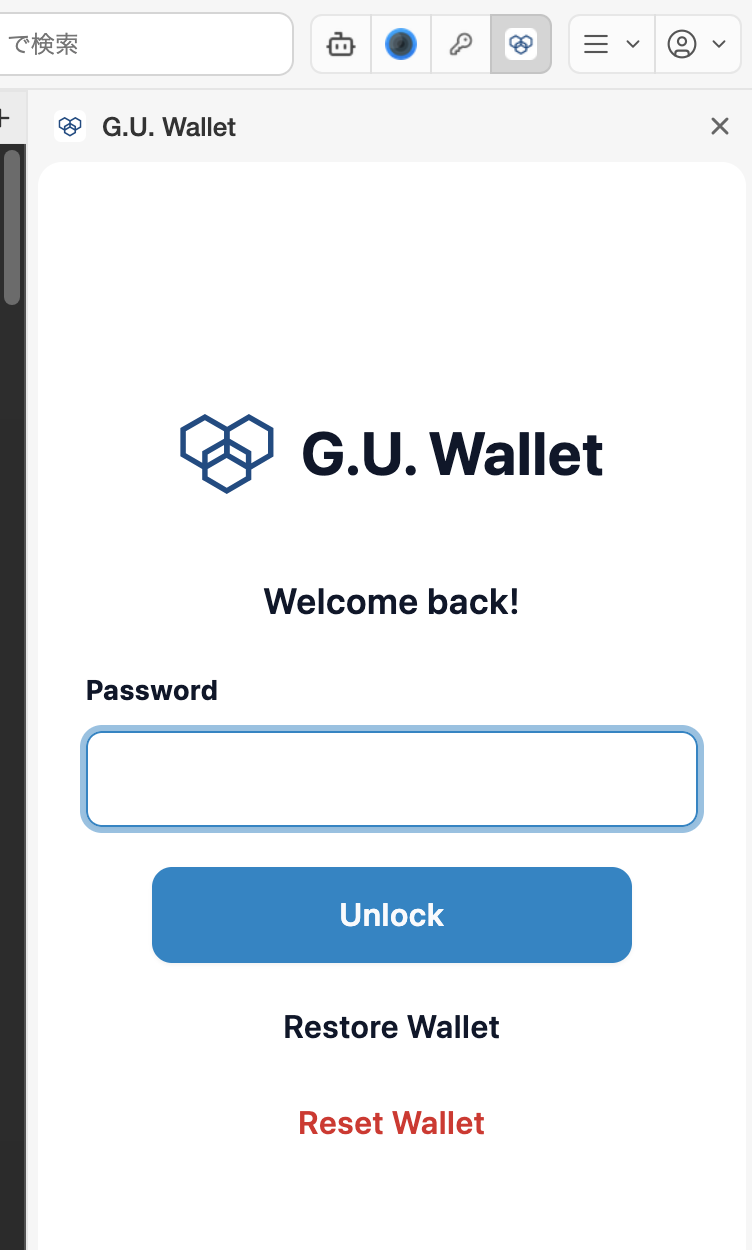
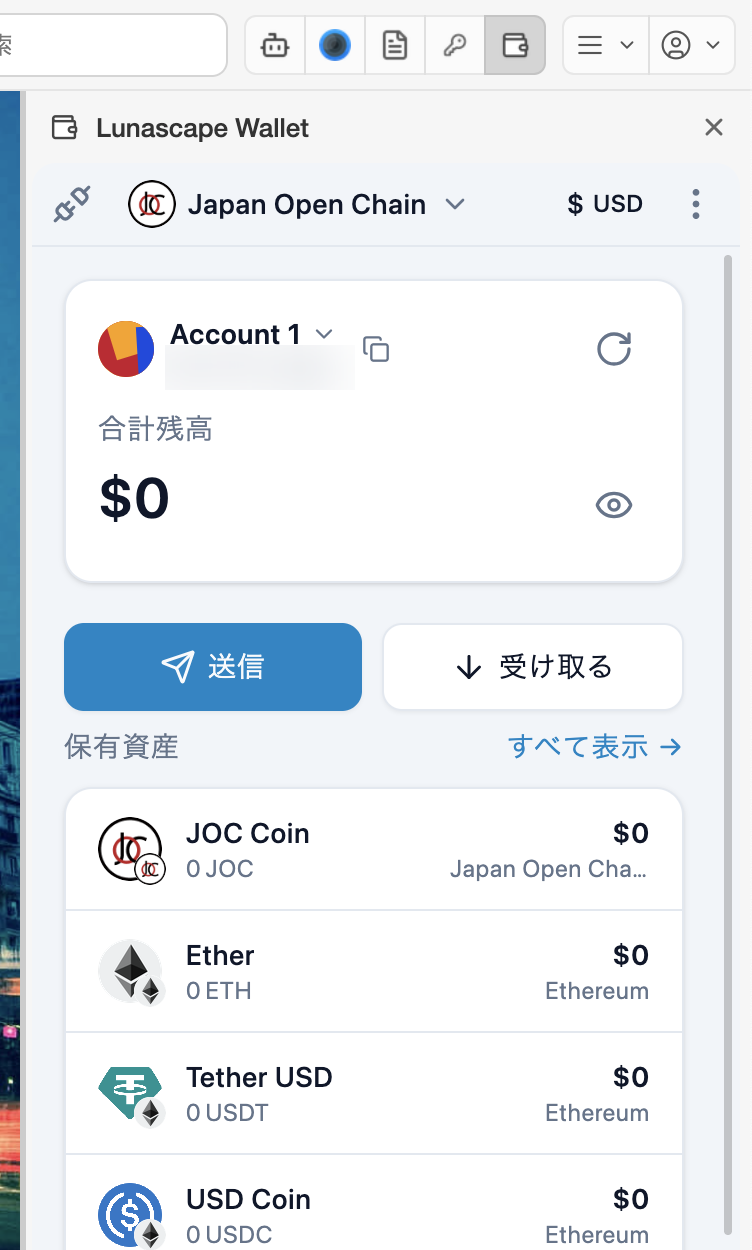
docs(desktop): rename G.U. Wallet to Lunascape Wallet, and retake its screenshots
- Replace every "G.U. Wallet" with "Lunascape Wallet" (ja / en), and fix the
  truncated summary in the extensions index.
- Retake the wallet panel on 1.0.2-beta.43 / wallet 7.0.0.1 (unlocked main
  screen, address blurred), add the Settings > Wallet screenshot, and give the
  English page its own English screenshots under i18n/en/img.
- Describe what the panel shows and how to unlock it on later visits.

diff --git a/desktop/features/extensions/wallet.md b/desktop/features/extensions/wallet.md
@@ -3,15 +3,17 @@ navigation:
   order: 400
 ---
 
-# G.U. Wallet
+# Lunascape Wallet
 
-G.U. Wallet は標準で入っている Web3 ウォレットの拡張機能です。EVM 互換のチェーンに対応し、Web3 サイト（DApp）と接続できます。
+Lunascape Wallet は標準で入っている Web3 ウォレットの拡張機能です。EVM 互換のチェーンに対応し、Web3 サイト（DApp）と接続できます。
 
 ## 使いはじめる
 
-ツールバーの G.U. Wallet のアイコンを押すと、ウィンドウの右側にウォレットのパネルが開きます。画面の案内に従ってウォレットを作成するか、既存のウォレットを復元します。もう一度アイコンを押すか、パネル右上の **×** で閉じます。
+ツールバーの Lunascape Wallet のアイコンを押すと、ウィンドウの右側にウォレットのパネルが開きます。画面の案内に従ってウォレットを作成するか、既存のウォレットを復元します。もう一度アイコンを押すか、パネル右上の **×** で閉じます。
 
-<img src="img/wallet-panel.png" alt="ツールバーの G.U. Wallet のアイコンを押すと、ウィンドウの右側にウォレットのパネルが開く" width="300" />
+ウォレットを開くと、上にチェーン（ネットワーク）、その下にアカウントと合計残高、**送信** / **受け取る** のボタン、保有資産の一覧が表示されます。2 回目からは、作成時に決めたパスワードを入力して **ロック解除** を押します。
+
+<img src="img/wallet-panel.png" alt="ツールバーの Lunascape Wallet のアイコンを押すと、ウィンドウの右側にウォレットのパネルが開き、チェーン、アカウントと合計残高、送信・受け取るボタン、保有資産が表示される（アドレスはぼかしてある）" width="300" />
 
 > **注意:** 復元用のフレーズ（シードフレーズ）は、他人に知られると資産を失います。画面のスクリーンショットやチャットで送ることは避け、安全な場所に保管してください。Lunascape のサポートがフレーズを尋ねることはありません。
 
@@ -22,6 +24,8 @@ Web3 サイトで接続を求められると、ウォレットの確認画面が
 ## 設定
 
 **設定** > **ウォレット** で、ウォレット拡張機能の取得元などを変更できます。通常は既定のまま（Chrome ウェブストアから自動更新）で使います。
+
+<img src="img/wallet-settings.png" alt="設定のウォレット。現在のバージョンが表示され、拡張機能のソースは Chrome Web Store（推奨）が選ばれ、自動更新を有効にするがオンになっている" width="560" />
 
 ## 関連項目
 

diff --git a/desktop/features/extensions/i18n/en/wallet.md b/desktop/features/extensions/i18n/en/wallet.md
@@ -1,10 +1,14 @@
-# G.U. Wallet
+# Lunascape Wallet
 
-G.U. Wallet is the Web3 wallet bundled with the browser. It works with EVM-compatible chains and connects to Web3 sites (DApps).
+Lunascape Wallet is the Web3 wallet bundled with the browser. It works with EVM-compatible chains and connects to Web3 sites (DApps).
 
 ## Get started
 
-Press the G.U. Wallet button in the toolbar and the wallet opens in a panel on the right of the window. Follow the prompts to create a wallet or restore an existing one. Press the button again, or the **×** at the top right of the panel, to close it.
+Press the Lunascape Wallet button in the toolbar and the wallet opens in a panel on the right of the window. Follow the prompts to create a wallet or restore an existing one. Press the button again, or the **×** at the top right of the panel, to close it.
+
+The wallet shows the chain (network) at the top, then your account and total balance, the **Send** and **Receive** buttons, and the list of assets you hold. From the second time on, enter the password you set when you created the wallet and press **Unlock**.
+
+<img src="img/wallet-panel.png" alt="Pressing the Lunascape Wallet button in the toolbar opens the wallet panel on the right, showing the chain, the account and total balance, the Send and Receive buttons, and the assets held (the address is blurred)" width="300" />
 
 > **Note:** Anyone with your recovery phrase can take your assets. Do not photograph it or send it in a chat — keep it somewhere safe. Lunascape support will never ask for it.
 
@@ -15,6 +19,8 @@ When a Web3 site asks to connect, the wallet shows a confirmation. Check that yo
 ## Settings
 
 **Settings** > **Wallet** controls where the wallet extension comes from. Leave it on the default, which keeps it updated from the Chrome Web Store.
+
+<img src="img/wallet-settings.png" alt="The Wallet page in Settings shows the current version, with Extension Source set to Chrome Web Store (recommended) and Enable auto-update on" width="560" />
 
 ## Related topics
 

diff --git a/desktop/getting-started/screen.md b/desktop/getting-started/screen.md
@@ -17,7 +17,7 @@ Lunascape のウィンドウは、次の要素で構成されています。
 | サイドバー | ウィンドウの左側です。**ナビゲーション**（ダッシュボード・ウェブ・ダウンロード・設定）と、お気に入り（ブックマーク）が並びます |
 | タブバー | ページ領域のすぐ上に、開いているタブが並びます。右端の **+** で新しいタブを開きます。ドラッグで並べ替え、ウィンドウ外へ引き出して分離できます |
 | ブックマークバー | よく使うブックマークが並びます。表示・非表示を切り替えられます |
-| サイドパネル | ウィンドウの右側に、Lunascape AI や G.U. Wallet などのパネルを表示します |
+| サイドパネル | ウィンドウの右側に、Lunascape AI や Lunascape Wallet などのパネルを表示します |
 | ページ領域 | Web ページを表示します |
 
 ## ツールバー左のボタン
@@ -34,7 +34,7 @@ Lunascape のウィンドウは、次の要素で構成されています。
 
 - **Lunascape AI**（ロボットのアイコン）: 表示中のページについて AI に質問できるパネルを右側に開きます。
 - **パスワードマネージャー**（鍵のアイコン）: 保存したログイン情報を開きます。
-- **G.U. Wallet**: ウォレットのパネルを右側に開きます。
+- **Lunascape Wallet**: ウォレットのパネルを右側に開きます。
 - **拡張機能**: 追加した拡張機能のボタンが並びます。
 - **メニュー（≡）**: ファイル、ブックマーク、履歴、ダウンロード、プロファイル、設定、アップデートの確認などをまとめて開きます。
 - **プロファイル**（人型のアイコン）: プロファイルを切り替えたり、管理画面を開いたりします。

diff --git a/desktop/settings/overview.md b/desktop/settings/overview.md
@@ -15,7 +15,7 @@ navigation:
 | プライバシー | 広告ブロック、サイトの権限、履歴の保存日数 |
 | ダウンロード | ダウンロードしたファイルの保存先 |
 | ブックマーク | ブックマークの書き出し・取り込み、バックアップ |
-| ウォレット | 内蔵暗号資産ウォレット（G.U. Wallet）の設定 |
+| ウォレット | 内蔵暗号資産ウォレット（Lunascape Wallet）の設定 |
 | 拡張機能 | 内蔵の拡張機能と、追加した拡張機能の管理 |
 | テーマ | ダッシュボードの背景と、ダッシュボードに表示するアプリ |
 | プロファイル | プロファイルの管理と、リンクを開くプロファイル |
@@ -60,11 +60,11 @@ navigation:
 
 ## ウォレット
 
-G.U. Wallet の **現在のバージョン** と、**拡張機能のソース** を確認・変更します。通常は **Chrome Web Store（推奨）** と **自動更新を有効にする** のままで使います。
+Lunascape Wallet の **現在のバージョン** と、**拡張機能のソース** を確認・変更します。通常は **Chrome Web Store（推奨）** と **自動更新を有効にする** のままで使います。
 
 ## 拡張機能
 
-- **システム拡張**: Lunascape に内蔵の拡張機能（Lunascape AI、G.U. Wallet、Lunascape Password Manager）を、個別にオン・オフできます。
+- **システム拡張**: Lunascape に内蔵の拡張機能（Lunascape AI、Lunascape Wallet、Lunascape Password Manager）を、個別にオン・オフできます。
 - **Chrome 拡張サポート**: Chrome ウェブストアの拡張機能を追加できるようにします（試験的な機能です）。
 - **インストール済み拡張機能**: 追加した拡張機能の有効・無効の切り替えと削除をします。
 

diff --git a/desktop/settings/i18n/en/overview.md b/desktop/settings/i18n/en/overview.md
@@ -10,7 +10,7 @@ Open **Settings** from the menu (≡) or from the sidebar on the left, and pick 
 | Privacy | Ad blocking, site permissions, how long history is kept |
 | Downloads | Where downloaded files are saved |
 | Bookmarks | Exporting and importing bookmarks, and backups |
-| Wallet | The built-in crypto wallet (G.U. Wallet) |
+| Wallet | The built-in crypto wallet (Lunascape Wallet) |
 | Extensions | The built-in extensions and the ones you added |
 | Theme | The dashboard background and the apps on the dashboard |
 | Profiles | Managing profiles, and which profile opens links |
@@ -55,11 +55,11 @@ Set the **Location** to save to, and **Ask where to save each file before downlo
 
 ## Wallet
 
-Shows the **Current Version** of G.U. Wallet and its **Extension Source**. Normally leave it on **Chrome Web Store (recommended)** with **Enable auto-update** on.
+Shows the **Current Version** of Lunascape Wallet and its **Extension Source**. Normally leave it on **Chrome Web Store (recommended)** with **Enable auto-update** on.
 
 ## Extensions
 
-- **System Extensions**: turn the built-in extensions (Lunascape AI, G.U. Wallet, Lunascape Password Manager) on or off one by one.
+- **System Extensions**: turn the built-in extensions (Lunascape AI, Lunascape Wallet, Lunascape Password Manager) on or off one by one.
 - **Chrome Extension Support**: lets you add extensions from the Chrome Web Store (experimental).
 - **Installed Extensions**: enable, disable or remove the extensions you added.
 

diff --git a/desktop/getting-started/i18n/en/screen.md b/desktop/getting-started/i18n/en/screen.md
@@ -10,7 +10,7 @@ The window is made up of these parts.
 | Sidebar | The left side of the window: **Navigation** (Dashboard, Web, Downloads, Settings) and your favorites (bookmarks) |
 | Tab bar | Holds the open tabs, just above the page area. **+** at its right end opens a new tab. Drag to reorder, or drag out of the window to detach |
 | Bookmarks bar | Your frequently used bookmarks. Can be shown or hidden |
-| Side panel | The right side of the window, for panels such as Lunascape AI and G.U. Wallet |
+| Side panel | The right side of the window, for panels such as Lunascape AI and Lunascape Wallet |
 | Page area | Shows the web page |
 
 ## Buttons on the left of the toolbar
@@ -27,7 +27,7 @@ Change their order in **Settings** > **Appearance** > **Order of the navigation 
 
 - **Lunascape AI** (robot icon): opens a panel on the right where you can ask an AI about the page you are on.
 - **Password manager** (key icon): opens your saved logins.
-- **G.U. Wallet**: opens the wallet panel on the right.
+- **Lunascape Wallet**: opens the wallet panel on the right.
 - **Extensions**: the buttons of extensions you have added.
 - **Menu (≡)**: file, bookmarks, history, downloads, profiles, settings, checking for updates and more.
 - **Profile** (person icon): switches profiles and opens the profile settings.

diff --git a/desktop/i18n/en/introduction.md b/desktop/i18n/en/introduction.md
@@ -9,7 +9,7 @@ Lunascape Desktop is a desktop browser for Windows and macOS. It combines everyd
 - Includes a password manager protected by Touch ID or Windows Hello.
 - Has Lunascape AI built in: ask about the page you are on, or hand it tasks.
 - Lets an external AI assistant drive the browser through an MCP server.
-- Ships with G.U. Wallet for connecting to Web3 sites.
+- Ships with Lunascape Wallet for connecting to Web3 sites.
 - Opens each new tab as a dashboard with search and your apps.
 
 ## How to read this guide

diff --git a/desktop/features/extensions/README.md b/desktop/features/extensions/README.md
@@ -10,4 +10,4 @@ Lunascape に同梱されている拡張機能と、Chrome 拡張機能の追加
 
 - [拡張機能を追加・管理する](manage.md) — Lunascape は Chrome 拡張機能に対応しています。
 - [パスワードマネージャー](password-manager.md) — Lunascape Password Manager は標準で入っている拡張機能です。
-- [G.U. Wallet](wallet.md) — G.U.
+- [Lunascape Wallet](wallet.md) — Lunascape Wallet は標準で入っている Web3 ウォレットの拡張機能です。

diff --git a/desktop/features/extensions/i18n/en/README.md b/desktop/features/extensions/i18n/en/README.md
@@ -9,4 +9,4 @@ The extensions bundled with Lunascape, and adding and managing Chrome extensions
 
 - [Add and manage extensions](manage.md) — Lunascape runs Chrome extensions.
 - [Password manager](password-manager.md) — Lunascape Password Manager is bundled with the browser.
-- [G.U. Wallet](wallet.md) — G.U.
+- [Lunascape Wallet](wallet.md) — Lunascape Wallet is the Web3 wallet bundled with the browser.

diff --git a/desktop/features/extensions/i18n/en/manage.md b/desktop/features/extensions/i18n/en/manage.md
@@ -42,7 +42,7 @@ These come with Lunascape. Turn any of them off under **System Extensions** in *
 | Name | See |
 | --- | --- |
 | Lunascape AI | [Lunascape AI](../../../ai/i18n/en/lunascape-ai.md) |
-| G.U. Wallet | [G.U. Wallet](wallet.md) |
+| Lunascape Wallet | [Lunascape Wallet](wallet.md) |
 | Lunascape Password Manager | [Password manager](password-manager.md) |
 
 ## Related topics
